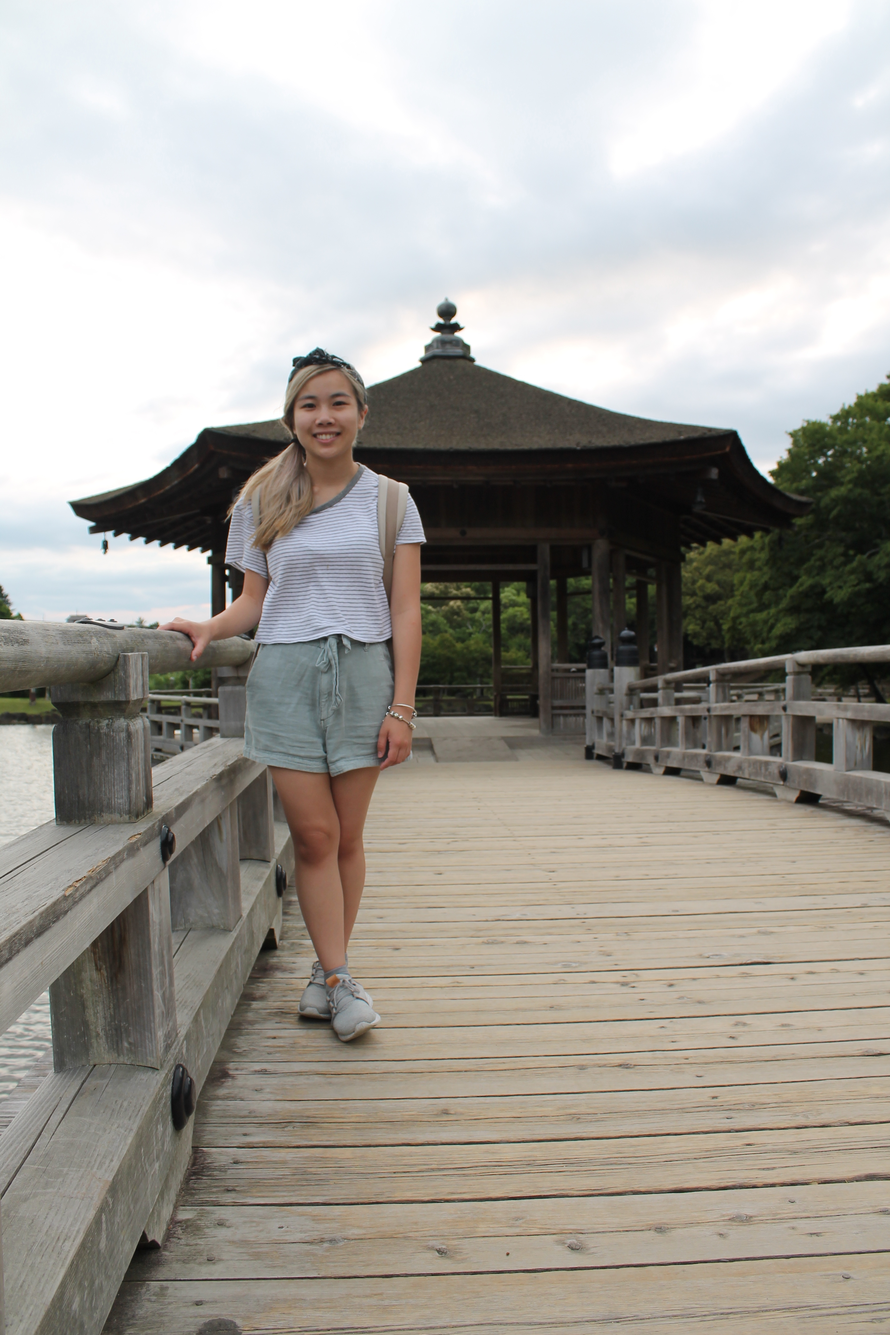
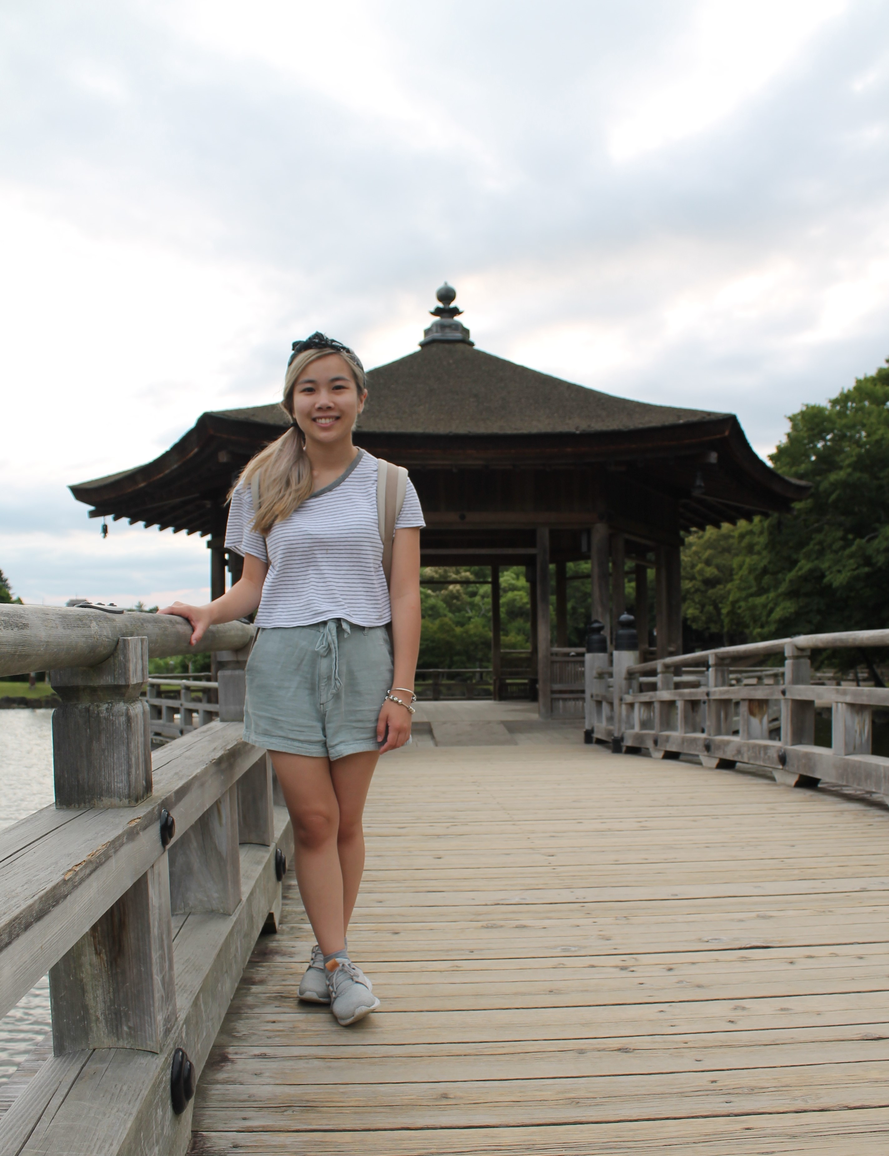
Added tagline Easter egg

diff --git a/assets/css/app.scss b/assets/css/app.scss
@@ -14,8 +14,12 @@ body {
 /************************* END OF SHARED ACROSS PAGES *************************/
 
 /********************************* NAVIGATION *********************************/
+.navbar {
+  margin-bottom: 30px;
+}
+
 .navbar-brand {
-  font-size: 40px;
+  font-size: 45px;
 }
 
 .nav-item a:hover {
@@ -24,9 +28,24 @@ body {
 /****************************** END OF NAVIGATION *****************************/
 
 /************************************* HOME ***********************************/
+#tag-line {
+  font-size: 40px;
+  text-align: right;
+}
+
+#got-ref {
+  display: none;
+  color: #59c6bb;
+  font-size: 30px;
+}
+
+// Display Game of Thrones comment when hovering over the tag line
+#tag-line:hover #got-ref {
+  display: block;
+}
+
 #home img {
-  // Width and height need to match that of Paper component
-  width: 55%;
+  width: 90%;
   height: auto;
 }
 /********************************* END OF HOME ********************************/

diff --git a/assets/js/components/Home.jsx b/assets/js/components/Home.jsx
@@ -5,7 +5,18 @@ import { Row, Col } from 'reactstrap';
 export default function Home(props) {
   return (
     <div id="home">
-      <img src="/images/me.JPG" alt="Picture of Myself" />
+      <Row>
+        <Col md="6">
+          <div id="tag-line">
+            <p>I sleep, and I code things.</p>
+            <span id="got-ref">(Yes, that was a Game of Thrones reference.)</span>
+          </div>
+
+        </Col>
+        <Col md="6">
+          <img src="/images/me.JPG" alt="Picture of Myself" />
+        </Col>
+      </Row>
     </div>
   );
 }
